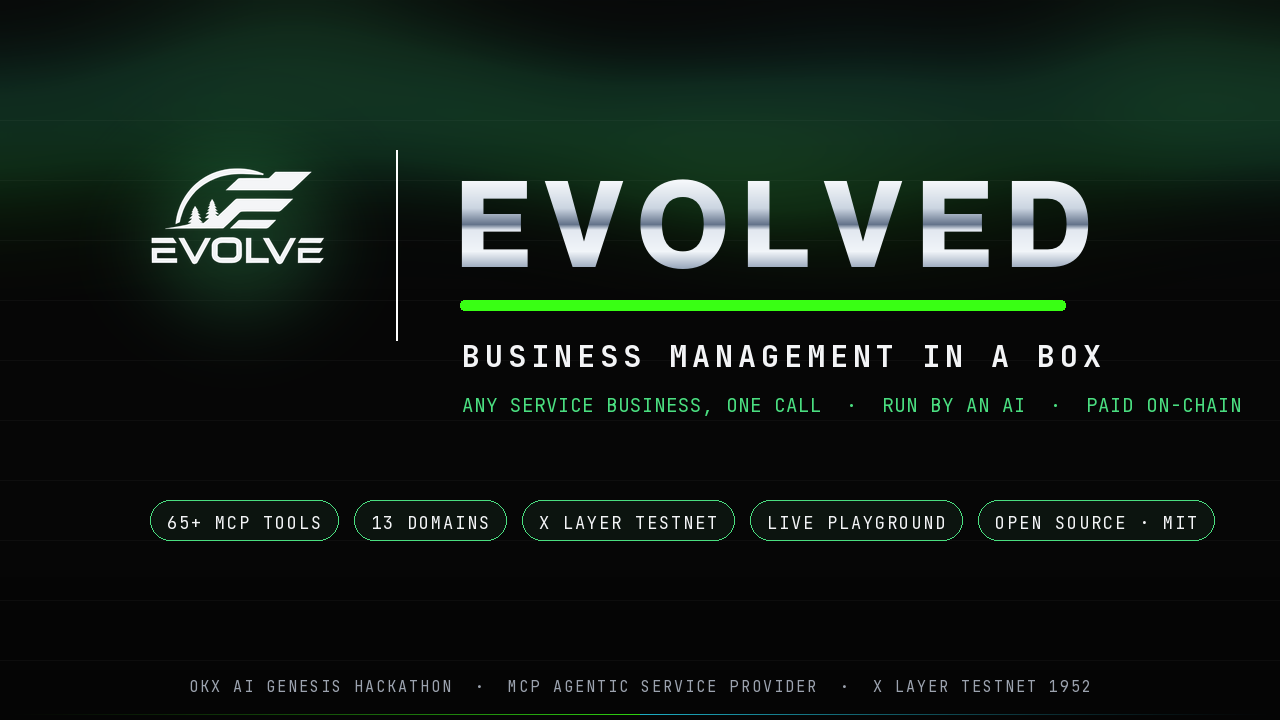
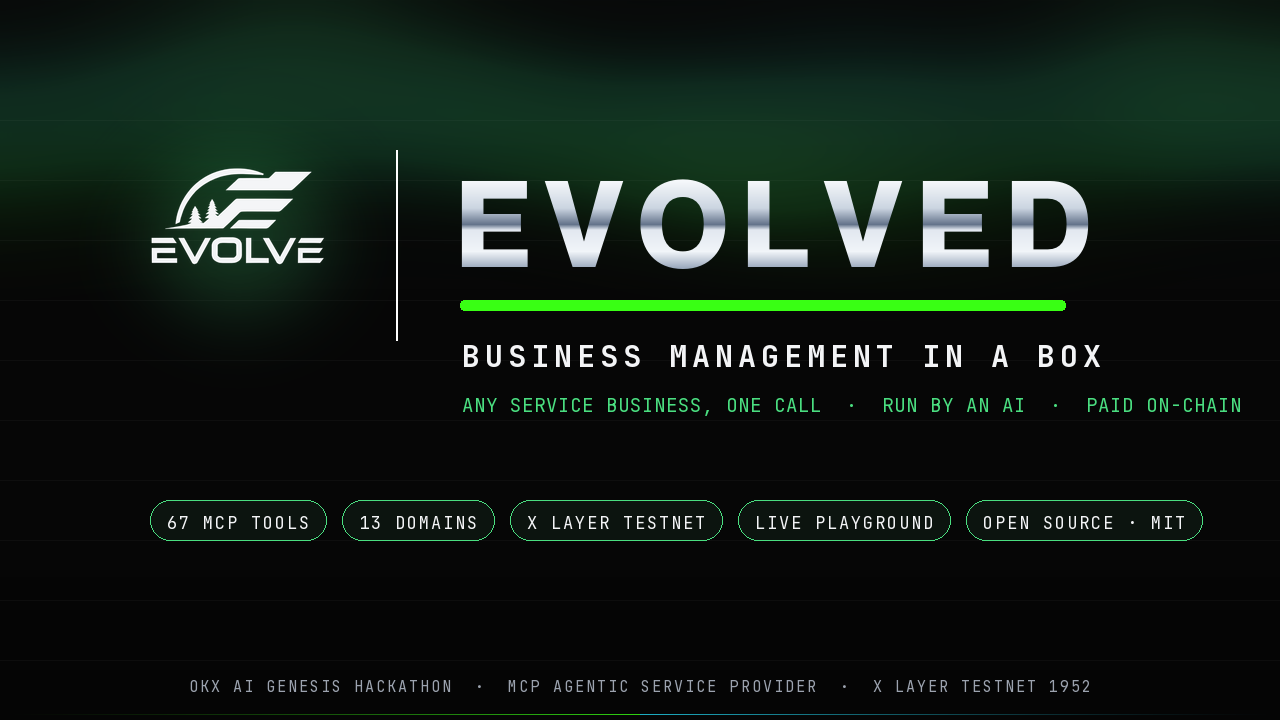
Audit fixes: honest on-chain framing, X thread rebuilt, 67 everywhere
- README hero + X draft: testnet-accurate settlement claim (no more
  unqualified paid-on-chain headline)
- X thread: #OKXAI in first line, de-jargoned bullets, Reply 1 at 279
  chars, real sub-280 fallback post, Premium + video-cap preflight notes
- Gallery card 04 and GALLERY.md: 65+ -> 67; regenerated card
- OKX-LISTING.md intro: paid tier is implemented, not planned
- Run sheets: demo video marked DONE with hosted URL
- DEMO-VIDEO.md: correct render_video.py reference
- asp-manifest comment de-staled; build_music.py portable output path

Changed region(s): [[0.2812, 0.7028, 0.9375, 0.7333], [0.125, 0.7028, 0.25, 0.7333]]

diff --git a/scripts/make-gallery.py b/scripts/make-gallery.py
@@ -153,7 +153,7 @@ def cover():
     tracked(d, (tx + 6, 336), "BUSINESS MANAGEMENT IN A BOX", JB(30), SILVER, 5)
     tracked(d, (tx + 6, 392), "ANY SERVICE BUSINESS, ONE CALL  ·  RUN BY AN AI  ·  PAID ON-CHAIN", JBR(19), AURORA, 1)
     # chips
-    chips = ["65+ MCP TOOLS", "13 DOMAINS", "X LAYER TESTNET", "LIVE PLAYGROUND", "OPEN SOURCE · MIT"]
+    chips = ["67 MCP TOOLS", "13 DOMAINS", "X LAYER TESTNET", "LIVE PLAYGROUND", "OPEN SOURCE · MIT"]
     cx = 150
     cy = 500
     for c in chips:
@@ -263,7 +263,7 @@ def toolkit():
     img = base()
     logo(img, 60, 60, 54, glow=False)
     d = ImageDraw.Draw(img)
-    tracked(d, (150, 66), "65+ TOOLS  ·  13 DOMAINS  ·  ANY TRADE IN ONE CALL", JB(28), SILVER, 2)
+    tracked(d, (150, 66), "67 TOOLS  ·  13 DOMAINS  ·  ANY TRADE IN ONE CALL", JB(28), SILVER, 2)
     tracked(d, (150, 112), "THE WHOLE MCP SPEC — TOOLS, RESOURCES, PROMPTS", JBR(17), AURORA, 2)
     domains = [
         "Quoting intelligence", "Money & invoicing", "Pipeline & dispatch",

diff --git a/submission/build_music.py b/submission/build_music.py
@@ -213,8 +213,8 @@ buf[-fo:] *= np.linspace(1,0,fo)[:,None]
 # write wav
 buf16 = np.clip(buf, -1, 1)
 buf16 = (buf16*32767).astype(np.int16)
-import wave
-path = r"C:\Users\lucid\AppData\Local\Temp\claude\C--Users-lucid-Desktop\2bb277fc-d67c-4df9-9e96-4d29bee47e6e\scratchpad\video\evolved_lofi.wav"
+import wave, os, sys
+path = sys.argv[1] if len(sys.argv) > 1 else os.path.join(os.path.dirname(os.path.abspath(__file__)), "evolved_lofi.wav")
 with wave.open(path,'w') as w:
     w.setnchannels(2); w.setsampwidth(2); w.setframerate(SR)
     w.writeframes(buf16.tobytes())

diff --git a/submission/x-post-draft.md b/submission/x-post-draft.md
@@ -5,25 +5,33 @@
 >
 > **Media plan (X allows one video OR up to four images per post, not both):**
 > - **Main post** → attach the demo video `submission/evolved-demo.mp4`
->   (86s, funk soundtrack, also streaming at
->   https://powderblue-leopard-801168.hostingersite.com/demo.mp4).
+>   (86s — under the 140s free-tier video cap; funk soundtrack; also streaming
+>   at https://powderblue-leopard-801168.hostingersite.com/demo.mp4).
 > - **Reply 1** → attach the branded card `assets/x-post-card.png`
 >   (1600×900, also staged at `Desktop\HACKQUEST-IMAGES\x-post-card.png`).
+>
+> **PREMIUM CHECK (do this first):** the main post is ~1,000 characters and
+> only publishes on an X Premium account (long-form). Open the composer — if
+> you don't see the raised character limit, use the ≤280 FALLBACK below
+> instead. #OKXAI sits in the FIRST line either way, so it survives timeline
+> truncation, quote-tweets, and screenshots.
 
 ---
 
-**Main post:**
+**Main post (Premium long-form, video attached):**
 
-Most AI business tools are chatbots wearing a suit.
+Most AI business tools are chatbots wearing a suit. #OKXAI
 
-Evolved is a company-in-a-box for the agent economy: ANY service business, spun up in one call — and it's proven, because a real Alberta blasting company already runs on it and gets PAID ON-CHAIN via @okx X Layer.
+Evolved is a company-in-a-box for the agent economy: ANY service business, spun up in one call.
+
+Not vaporware. A real Alberta blasting company runs on this playbook today — and Evolved settles its invoices in OKB on @okx X Layer testnet, verified on-chain, no keys ever held.
 
 One agent runs the whole engagement, humans approve only the money:
 ◆ Photo → priced branded quote in seconds
 ◆ E-sign → weather-gated booking → FLHA safety → receipts → invoice
-◆ Invoice settles in OKB on X Layer (testnet) — verified on-chain, no keys ever held
-◆ Evolved itself is a paid ASP via x402: 402 challenge → pay per call → answer
-◆ Voice commands from the crew, a CFO simulator, and a quote engine that learns from won jobs
+◆ Invoices settle in OKB on X Layer testnet — read-only RPC verify, replay-protected
+◆ x402: other agents pay Evolved per call via a live 402 payment challenge
+◆ Voice commands from the crew, a CFO simulator, a quote engine that learns from won jobs
 ◆ Trade packs ship today: pressure washing, line painting, mobile detailing — yours is one file away
 
 67 tools. 36 tests incl. a live testnet probe. Fully open source. Synthetic data, real math.
@@ -37,11 +45,23 @@ github.com/kr8tiv-ai/evolved
 
 ---
 
+**FALLBACK main post (≤280, any account tier, video attached):**
+
+Most AI business tools are chatbots wearing a suit. #OKXAI
+
+Evolved: a company-in-a-box proven on a real Alberta blasting company, settling invoices in OKB on @okx X Layer testnet. 67 tools, open source.
+
+powderblue-leopard-801168.hostingersite.com
+
+github.com/kr8tiv-ai/evolved
+
+---
+
 **Reply 1 (thread — attach assets/x-post-card.png):**
 
-Why it is different: two feedback loops.
+The moat: it learns from every job. Two feedback loops.
 
-Every completed job records quoted rate vs actual cost — the engine prices the next job smarter. And the books re-audit themselves daily: deposit in but unscheduled, invoice unpaid 7 days, job done but never invoiced — auto-raised, not remembered.
+Every job records quoted rate vs actual cost — the engine prices the next job smarter. And the books re-audit themselves on every pass: deposit in but unscheduled, invoice unpaid, job done but never invoiced — auto-raised.
 
 **Reply 2 (thread, optional):**
 
@@ -49,5 +69,7 @@ Born on a jobsite, not in a pitch deck. The production system runs the company t
 
 ---
 
-Character check: main post ≈ 990 chars — fine for Premium; if posting from a
-non-Premium account, trim the bullet block to the first three bullets.
+Character audit (X-weighted, URLs = 23 via t.co): main ≈ 1,000 (Premium
+long-form required), fallback ≤ 280, Reply 1 ≤ 280, Reply 2 ≤ 280. Video is
+86s — under the 140s cap on every tier. Upload the video NATIVELY (not as a
+link) — the eligibility requirement is "video attached to main post."

diff --git a/docs/OKX-LISTING.md b/docs/OKX-LISTING.md
@@ -3,8 +3,9 @@
 Evolved lists as an **A2MCP Agentic Service Provider** — the standardized
 MCP-service class. Per OKX's ASP requirements, an A2MCP endpoint must be one
 of two compliant forms: **a free endpoint that returns the result directly**,
-or an x402-based paid endpoint. Evolved ships the free form; the paid upgrade
-path is documented below.
+or an x402-based paid endpoint. Evolved ships **both**: the free endpoint at
+`POST /mcp` and an implemented x402 pay-per-call tier at `POST /mcp-paid`
+(details below).
 
 ## Why A2MCP (not A2A)
 

diff --git a/README.md b/README.md
@@ -2,7 +2,7 @@
 
 <img src="assets/hero.png" alt="Evolved — Evolve Eco Blasting's operations brain as an autonomous agentic service" width="100%">
 
-### The company-in-a-box for the agent economy: any service business, spun up in one call — proven on a real Alberta blasting company that runs on it and gets paid on-chain.
+### The company-in-a-box for the agent economy: any service business, spun up in one call — proven on a real Alberta blasting company, settling its invoices in OKB on X Layer testnet, verified on-chain.
 
 **▶ [TRY IT LIVE — the browser playground](https://powderblue-leopard-801168.hostingersite.com/)** — no install, no keys: run voice commands, photo-quote a driveway, drive the autonomous lifecycle through its two human money gates, and watch the x402 402 → proof → receipt flow, all against the real endpoint.
 

diff --git a/docs/GALLERY.md b/docs/GALLERY.md
@@ -13,7 +13,7 @@ uploaded to the HackQuest project.
 ### Paid on-chain — x402 on X Layer (402 → proof → receipt)
 ![On-chain x402 flow](../assets/gallery/03-onchain.png)
 
-### 65+ tools · 13 domains · any trade in one call
+### 67 tools · 13 domains · any trade in one call
 ![Toolkit and domains](../assets/gallery/04-toolkit.png)
 
 ---

diff --git a/submission/DEMO-VIDEO.md b/submission/DEMO-VIDEO.md
@@ -46,7 +46,7 @@ fully CC0 build.
 
 ## How it was built
 
-- `render.py` — deterministic Pillow frame renderer (title, premise, photo-quote,
+- [`render_video.py`](render_video.py) — deterministic Pillow frame renderer (title, premise, photo-quote,
   lifecycle, FLHA, x402, end card) with animated captions, composited to 1080p30.
 - `build_music.py` — the original CC0 lofi track (superseded by the licensed
   funk soundtrack in the current cut).

diff --git a/submission/PREFILLED-FORM.md b/submission/PREFILLED-FORM.md
@@ -44,7 +44,7 @@ A2MCP
 1. [ ] HackQuest: log in and hit Register on hackquest.io/hackathons/OKXAI-Genesis-Hackathon (account-bound; 2 minutes).
 2. [ ] Onchain OS listing (docs/OKX-LISTING.md) -> capture the **Agent ID**.
 3. [ ] Optional but judge-recommended: set EVOLVED_PAYTO to your testnet wallet, settle ONE real X Layer testnet payment, pin the txHash + OKLink link in README/video/X post.
-4. [ ] Record the <=90s video (docs/DEMO.md two-act cut; show the playground and the franchise_spinup moment).
+4. [x] Demo video DONE — submission/evolved-demo.mp4 (86s, funk soundtrack), streams at https://powderblue-leopard-801168.hostingersite.com/demo.mp4; attach it natively to the X post.
 5. [ ] Post on X with #OKXAI (submission/x-post-draft.md) -> capture the post URL.
 6. [ ] Open the pre-filled link above, fill the four fields, submit.
 7. [ ] Screenshot the form confirmation.

diff --git a/submission/okx-form-answers.md b/submission/okx-form-answers.md
@@ -44,7 +44,7 @@ Every rate, rule, and workflow in Evolved is production truth from a company tha
 
 1. [x] Deploy to a public host — DONE: https://powderblue-leopard-801168.hostingersite.com/mcp (Hostinger managed hosting; see docs/DEPLOY-HOSTINGER.md).
 2. [ ] Onchain OS: install skill, log in to Agentic Wallet (your email), register A2MCP ASP, list it (prompts in docs/OKX-LISTING.md; answers in submission/asp-manifest.json).
-3. [ ] Record the ≤90s demo (cut plan in docs/DEMO.md).
+3. [x] Demo video DONE — submission/evolved-demo.mp4, hosted at /demo.mp4 (see submission/DEMO-VIDEO.md).
 4. [ ] Post on X with #OKXAI (draft in submission/x-post-draft.md) + video.
 5. [ ] Fill this form with the endpoint URL, Agent ID, and X post link.
 6. [ ] Confirm the listing passes review (~24h) — required for eligibility, so do not leave it past July 16.